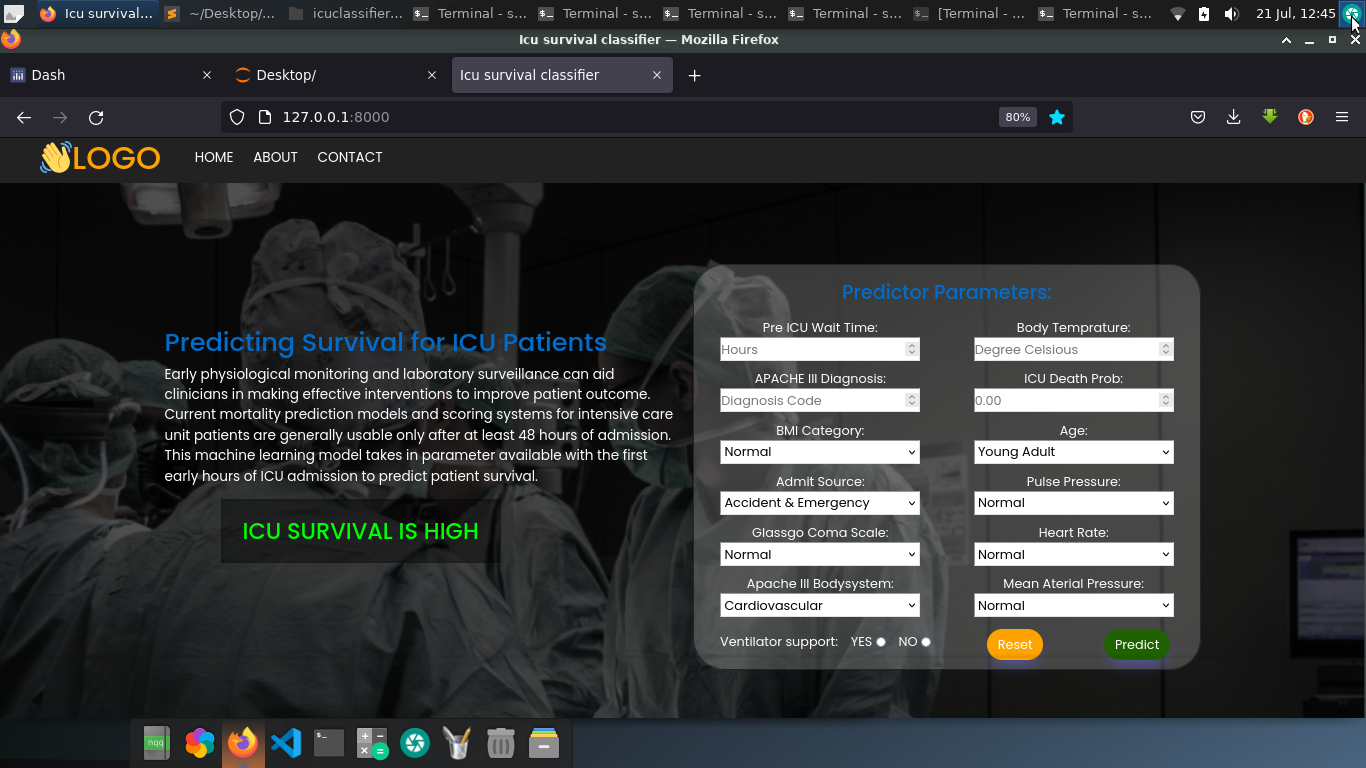
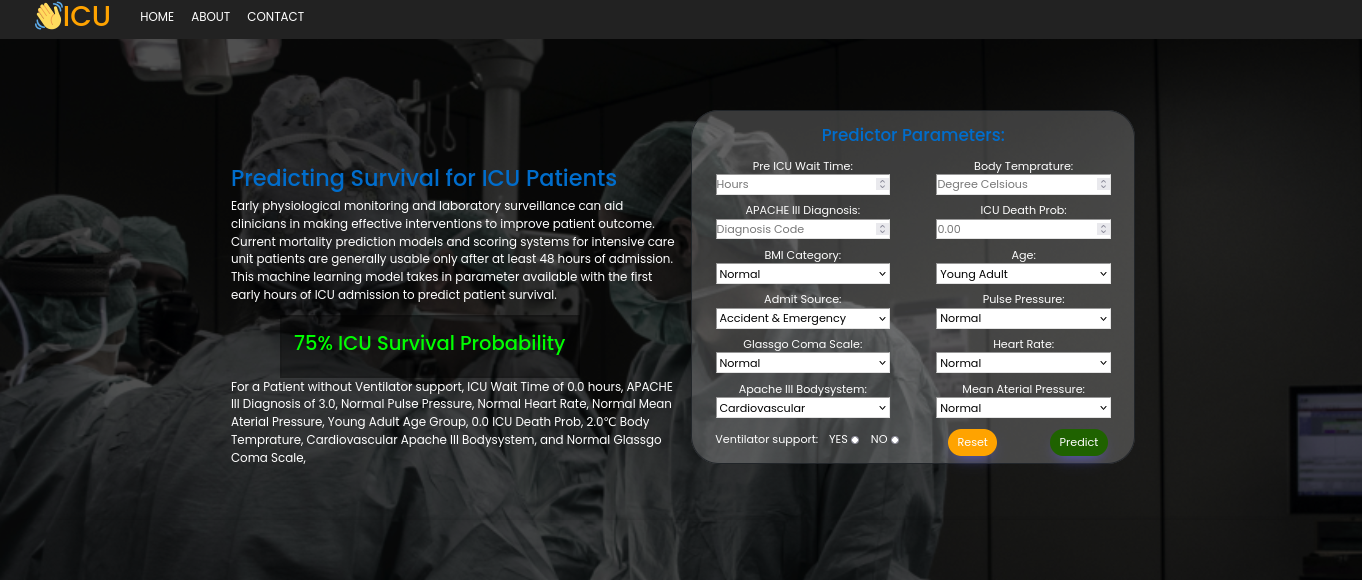
Readme

diff --git a/django-web-app/icuclassifier/templates/icuclassifier/home.html b/django-web-app/icuclassifier/templates/icuclassifier/home.html
@@ -1,6 +1,6 @@
 {% load static %}
 <link href="https://cdn.jsdelivr.net/npm/bootstrap@5.1.3/dist/css/bootstrap.min.css" rel="stylesheet">
-<link rel="stylesheet" type="text/css" href="{% static 'icuclassifier/style2.css' %}">
+<link rel="stylesheet" type="text/css" href="{% static 'icuclassifier/style.css' %}">
 
 <!DOCTYPE html>
 <html>
@@ -15,7 +15,7 @@
 
    <nav class="navigationWrapper">
      <div class="logoWrapper">
-      <h1>👋logo</h1>
+      <h1>👋ICU</h1>
      </div>
      <ul class="navigation">
        <li ><a href="#">Home</a></li>
@@ -33,14 +33,14 @@
                 <h2>Predicting Survival for ICU Patients</h2>
                 <p>Early physiological monitoring and laboratory surveillance can aid clinicians in making effective interventions to improve patient outcome.<br> Current mortality prediction models and scoring systems for intensive care unit patients are generally usable only after at least 48 hours of admission.<br> This machine learning model takes in parameter available with the first early hours of ICU admission to predict patient survival.</p>
    <!--              results -->
-                {% if pred_result == 'ICU SURVIVAL IS HIGH' %}
-                <div class="result"><h3 id="pred1">{{pred_result}}</h3></div>
-                {% elif pred_result == 'ICU SURVIVAL IS LOW' %}
-                <div class="result"><h3 id="pred2">{{pred_result}}</h3></div>
+                {% if pred_result > 50 %}
+                <div class="result"><h3 id="pred1">{{pred_result}}% ICU Survival Probability</h3></div>
+                {% elif pred_result < 50 %}
+                <div class="result"><h3 id="pred2">{{pred_result}}% ICU Survival Probability</h3></div>
                 {%else%}
                 <div> </div>
                 {% endif %}  
-                             
+               <p>{{parameters}}</p>              
             </div>
 
    	     <div class="col">
@@ -182,12 +182,11 @@
      </div>
      <ul class="Contact">
        <li ><a href="https://twitter.com/achimugu_a">Twitter</a></li>
-       <li ><a href="mailto:sachimugu@hotmail.com">Email</a></li>
+       <li ><a href="mailto:sachiimugu@gmail.com">Email</a></li>
        <li ><a href="https://www.linkedin.com/in/achimugu-a-79aa8a18a/">linkedin</a></li>
        <li ><a class="fa fa-linkedin" href="https://github.com/Sachimugu" >Github</a></li>
      </ul>
    </div>
 
-   </body>
 </body>
 </html>

diff --git a/django-web-app/icuclassifier/static/icuclassifier/style.css b/django-web-app/icuclassifier/static/icuclassifier/style.css
@@ -79,7 +79,7 @@ padding-top: 20px;
   border-style: solid;
   border-color: rgba(0,0,0,0.1);
   height: 90px;
-  width: 500px;
+  width: 430px;
   text-align: center;
   justify-content: center;
 }
@@ -106,7 +106,6 @@ color: #006DCC;}
   justify-content: right;
   align-items: center;
 }
-
 .item {
  display: flex;
   flex-direction: column;
@@ -151,8 +150,6 @@ margin-bottom: 1px;
   width: 250px;
   height: 30px;
 }
-
-
 .forterwraper {
   marrgin: 50px;
   display: flex;
@@ -177,6 +174,10 @@ ul li {display: inline;}
 }
 .forterwraper li a :hover{color: #fff;}
 
+#psfip {
+  font-size: 17px;
+  padding-top: 80px;
+}
 #psfip {
   font-size: 17px;
   padding-top: 80px;

diff --git a/django-web-app/icuclassifier/views.py b/django-web-app/icuclassifier/views.py
@@ -3,8 +3,46 @@ import pickle
 
 # Create your views here.
 
+x={'Ventilator support':{0: 'without', 1:'on'},
+    'Pre ICU Wait Time':{},
+    'APACHE III Diagnosis:':{},
+    'Pulse Pressure': {1:'Normal', 0:'high', 2:'Normal'}, 
+    'Heart Rate': {1:'Normal', 0:'high', 2:'Normal'},
+    'Mean Aterial Pressure': {1:'Normal', 0:'high', 2:'Normal'},
+    'Age':{1:'Old Adult', 0:'Adult', 2:'Young Adult'},
+   	'ICU Death Prob':{},
+    'Body Temprature':{},
+    'Apache III Bodysystem':{0:'Cardiovascular', 1:'Gastrointestinal', 2:'Genitourinary', 3:'Gynecological', 4:'Hematological', 5:'Metabolic', 6:'Musculoskeletal',7:'Neurological', 8:'Respiratory', 9:'Sepsis', 10:'Trauma', },
+    'Glassgo Coma Scale':{0:'Mild', 1:'Moderate', 2:'Normal', 3:'Sever',},
+    'Admit Source':{'A&E':'Accident & Emergency', 'OR':'Operating Room', 'O_ICU'>'Other ICU' 'O_Hospital':'Other Hospital', 'Floor':'Floor'},
+   	'BMI Category:':{0:'Morbidily Obesed', 1:'Normal', 2:'Obesed', 3:'Over weight', 4:'Under Weight' }}
+
 def Home(request):
 	if request.method == "POST":
+		y=request.POST
+
+		# u=f'''
+		# A Patient {x["Ventilator support"][int(y["index3"][0])]} Ventilator support,
+		# ICU Wait Time of {float(y["index0"][0])} hours, APACHE III Diagnosis of {float(y["index1"][0])},
+		# {x["Pulse Pressure"][int(y["index9"][0])]} Pulse Pressure, {x["Heart Rate"][int(y["index10"][0])]} Heart Rate,
+		# {x["Mean Aterial Pressure"][int(y["index11"][0])]} Mean Aterial Pressure, 
+		# {x["Age"][int(y["index8"][0])]} Age Group, {float(y["index4"][0])} ICU Death Prob, 
+		# {float(y["index2"][0])}℃ Body Temprature, {x["Apache III Bodysystem"][int(y["index5"][0])]} Apache III Bodysystem,
+		# {x["Glassgo Coma Scale"][int(y["index7"][0])]} Glassgo Coma Scale, and  {x["Admit Source"] [str(y["index12"][0])]} 
+		# Admit Source will have a:
+		# '''
+
+		u=f'''
+		For a Patient {x["Ventilator support"][int(y["index3"][0])]} Ventilator support,
+		ICU Wait Time of {float(y["index0"][0])} hours, APACHE III Diagnosis of {float(y["index1"][0])},
+		{x["Pulse Pressure"][int(y["index9"][0])]} Pulse Pressure, {x["Heart Rate"][int(y["index10"][0])]} Heart Rate,
+		{x["Mean Aterial Pressure"][int(y["index11"][0])]} Mean Aterial Pressure, 
+		{x["Age"][int(y["index8"][0])]} Age Group, {float(y["index4"][0])} ICU Death Prob, 
+		{float(y["index2"][0])}℃ Body Temprature, {x["Apache III Bodysystem"][int(y["index5"][0])]} Apache III Bodysystem, and
+		{x["Glassgo Coma Scale"][int(y["index7"][0])]} Glassgo Coma Scale,
+		'''
+		parameters=u.strip('\n').replace('\n', ' ')
+		print(parameters)
 
 		model=pickle.load(open('pickel_lgb_model.pkl', 'rb'))
 		data = []
@@ -31,12 +69,14 @@ def Home(request):
 			data.append(0)
 			data.append(0)
 
-
-		prediction=model.predict([data])
-		if prediction > 0:
-			context = {'pred_result':'ICU SURVIVAL IS LOW'}
+		prediction=model.predict_proba([data])
+		if prediction[0][0] < 0.5:
+			context = {'pred_result':int(round(prediction[0][0], 2)*100),
+					   'parameters':parameters}
 		else:
-			context = {'pred_result':'ICU SURVIVAL IS HIGH'}
+			context = {'pred_result':int(round(prediction[0][0], 2)*100),
+			'parameters':parameters}
 	else:
 		context={}
+
 	return render(request, 'icuclassifier/home.html', context=context )

diff --git a/README.md b/README.md
@@ -140,7 +140,8 @@ Go to http://127.0.0.1:8000/ on web-brower
 Pull requests are welcome! For major changes.
 
 ### Contact
-<a href="mailto:sachimugu@gmail.com"> ![](https://img.shields.io/badge/Microsoft_Outlook-0078D4?style=for-the-badge&logo=microsoft-outlook&logoColor=white) </a>
+<a href="mailto:sachimugu@gmail.com"> ![](https://img.shields.io/badge/Gmail-D14836?style=for-the-badge&logo=gmail&logoColor=white)
+
 <a href="https://www.linkedin.com/in/achimugu-a-79aa8a18a/"> ![](https://img.shields.io/badge/LinkedIn-0077B5?style=for-the-badge&logo=linkedin&logoColor=white) </a>
 <a href="https://twitter.com/achimugu_a"> ![](https://img.shields.io/badge/Twitter-1DA1F2?style=for-the-badge&logo=twitter&logoColor=white) </a>
 <a href="https://medium.com/@sachimugu"> ![](https://img.shields.io/badge/Medium-12100E?style=for-the-badge&logo=medium&logoColor=white) </a>
